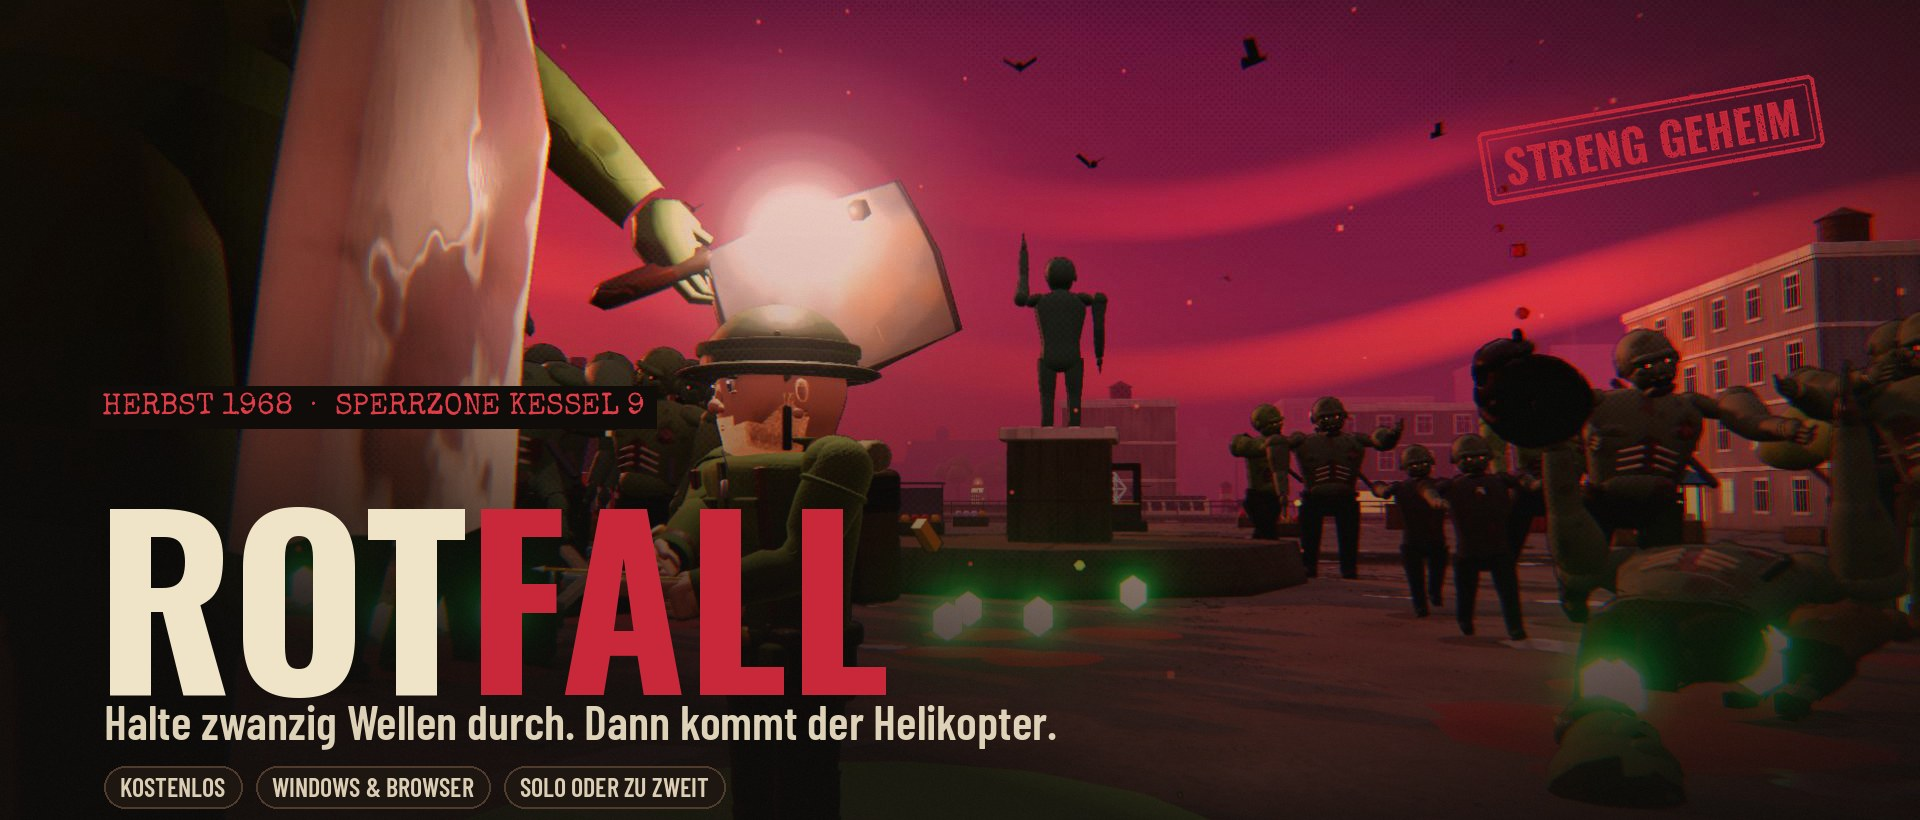
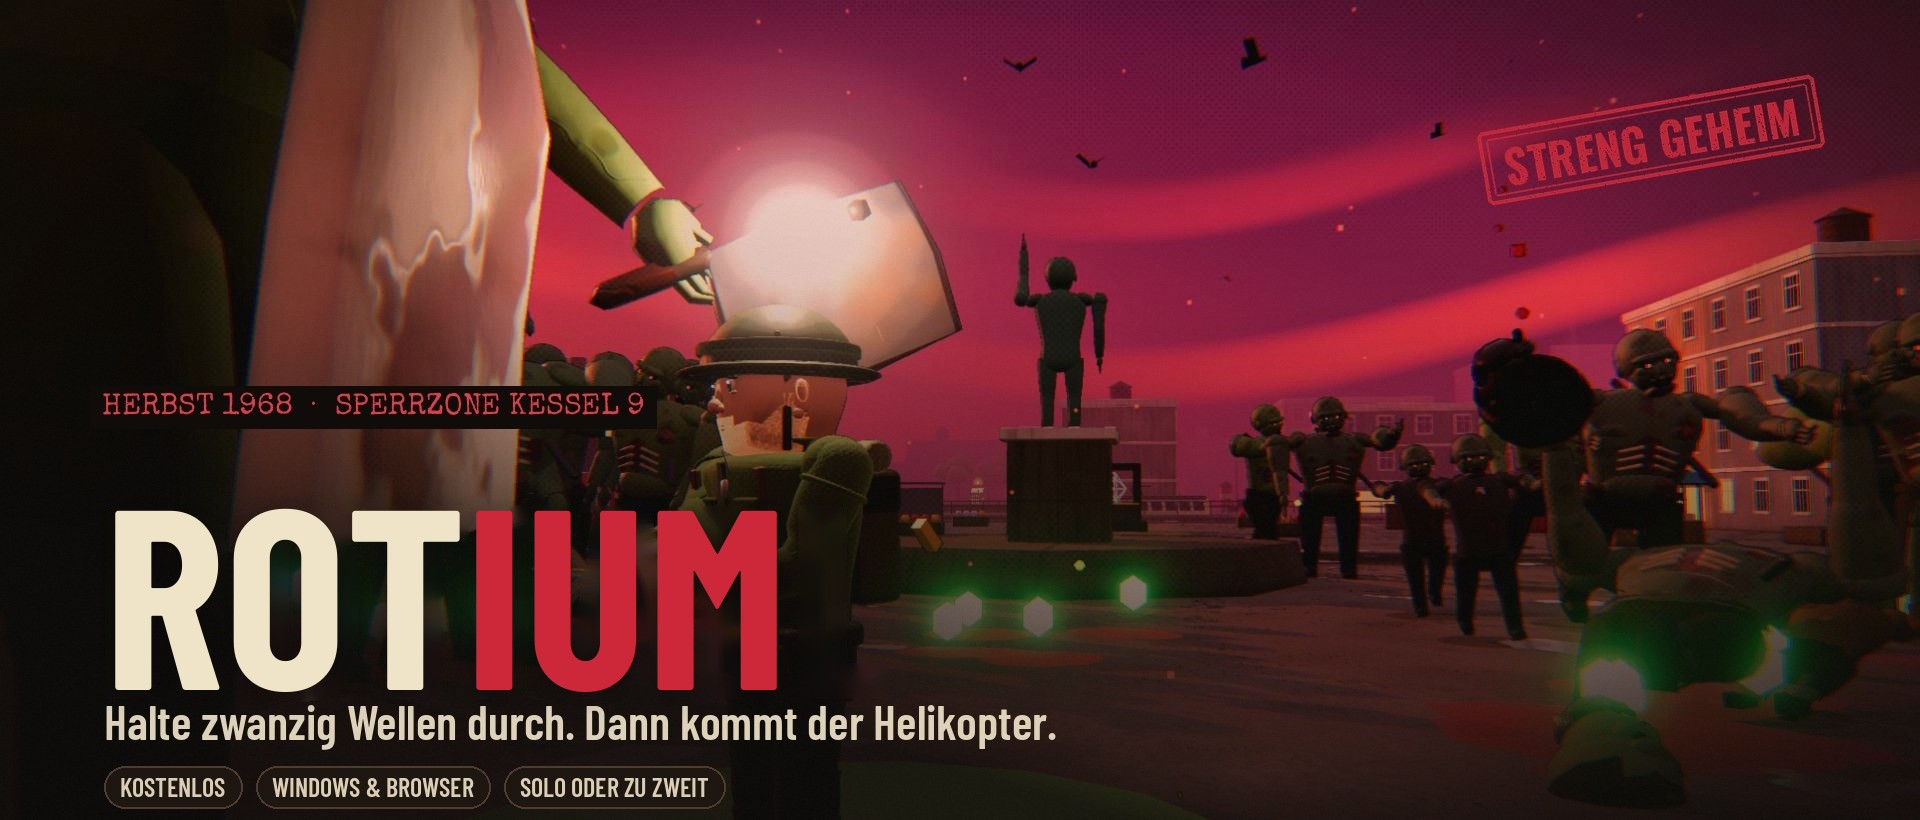
Umbenennung ROTFALL → ROTIUM: Seiten, README, Titelbild, Vorlagen, Discord-Funker
Claude-Session: https://claude.ai/code/session_01DR4TC9iCHMCvUycto7uoQm

Changed region(s): [[0.0312, 0.6098, 0.4688, 0.8537]]

diff --git a/release/index.html b/release/index.html
@@ -3,11 +3,11 @@
 <head>
 <meta charset="utf-8">
 <meta name="viewport" content="width=device-width, initial-scale=1">
-<title>ROTFALL herunterladen – Windows</title>
-<meta name="description" content="ROTFALL für Windows herunterladen: kostenloses 3D-Zombie-Survival-Roguelite im Kalten Krieg 1968.">
-<meta property="og:title" content="ROTFALL – Download für Windows">
+<title>ROTIUM herunterladen – Windows</title>
+<meta name="description" content="ROTIUM für Windows herunterladen: kostenloses 3D-Zombie-Survival-Roguelite im Kalten Krieg 1968.">
+<meta property="og:title" content="ROTIUM – Download für Windows">
 <meta property="og:description" content="Halte zwanzig Wellen durch. Dann kommt der Helikopter. Kostenlos, keine Anmeldung.">
-<meta property="og:image" content="https://beydo7.github.io/rotfall-releases/media/site/hero.jpg">
+<meta property="og:image" content="https://beydo7.github.io/rotium-releases/media/site/hero.jpg">
 <link rel="icon" href="../media/site/icon.png">
 <link rel="stylesheet" href="../media/site/site.css">
 <style>
@@ -22,7 +22,7 @@
 </head>
 <body>
 <header class="top"><div class="wrap">
-  <a class="brand" href="../"><img src="../media/site/icon.png" alt="">ROTFALL</a>
+  <a class="brand" href="../"><img src="../media/site/icon.png" alt="">ROTIUM</a>
   <nav>
     <a href="../play/">Im Browser spielen</a>
     <a class="on" href="./">Download</a>
@@ -34,10 +34,10 @@
 <section class="dl"><div class="wrap">
   <div>
     <div class="kicker">Windows · kostenlos</div>
-    <h1>ROTFALL herunterladen</h1>
+    <h1>ROTIUM herunterladen</h1>
     <p class="lead">Ein Download, entpacken, loslegen. Keine Installation, keine Anmeldung.</p>
     <div class="btns" style="margin-top:26px">
-      <a id="dl" class="btn red big" href="https://github.com/beydo7/rotfall-releases/releases/latest">
+      <a id="dl" class="btn red big" href="https://github.com/beydo7/rotium-releases/releases/latest">
         <svg viewBox="0 0 24 24" fill="currentColor"><path d="M3 5.5 10.5 4.4v7.1H3V5.5zm0 13 7.5 1.1v-7H3v5.9zm8.4 1.2L21 21v-8.4h-9.6v7.1zm0-15.4v7.2H21V3l-9.6 1.3z"/></svg>
         <span>Für Windows laden<small id="dlsub">Neueste Version</small></span>
       </a>
@@ -45,16 +45,16 @@
     </div>
     <p class="meta" id="meta"><span>Windows 10 / 11 (64-Bit)</span></p>
   </div>
-  <img class="shot" src="../media/site/hero.jpg" alt="Szene aus ROTFALL">
+  <img class="shot" src="../media/site/hero.jpg" alt="Szene aus ROTIUM">
 </div></section>
 
 <section><div class="wrap">
   <div class="kicker">In drei Schritten</div>
-  <h2>So startest du ROTFALL</h2>
+  <h2>So startest du ROTIUM</h2>
   <div class="steps">
     <div class="card"><h3>ZIP laden</h3><p>Oben auf „Für Windows laden“ klicken.</p></div>
     <div class="card"><h3>Entpacken</h3><p>Rechtsklick auf die ZIP-Datei → „Alle extrahieren“.</p></div>
-    <div class="card"><h3>ROTFALL.exe starten</h3><p>Warnt Windows („Der Computer wurde geschützt“): „Weitere Informationen“ → „Trotzdem ausführen“.</p></div>
+    <div class="card"><h3>ROTIUM.exe starten</h3><p>Warnt Windows („Der Computer wurde geschützt“): „Weitere Informationen“ → „Trotzdem ausführen“.</p></div>
   </div>
   <p class="lead" style="margin-top:20px;font-size:17px">Neue Version? Einfach die neue ZIP entpacken und die alte löschen. Dein Fortschritt liegt getrennt vom Spiel und bleibt erhalten.</p>
 </div></section>
@@ -70,21 +70,21 @@
     <tr><td>Arbeitsspeicher</td><td id="ramMin">wird gerade gemessen</td><td id="ramRec">wird gerade gemessen</td></tr>
     <tr><td>Speicherplatz</td><td>300 MB</td><td>300 MB</td></tr>
   </table>
-  <p class="notes" style="margin-top:14px">Im Spiel unter <b>Optionen → Grafik → „Leistungstest starten“</b> prüft ROTFALL in etwa sechs Minuten, wie gut es auf deinem PC läuft.</p>
+  <p class="notes" style="margin-top:14px">Im Spiel unter <b>Optionen → Grafik → „Leistungstest starten“</b> prüft ROTIUM in etwa sechs Minuten, wie gut es auf deinem PC läuft.</p>
 </div></section>
 
 <section id="notes-sec" style="padding-top:20px" hidden><div class="wrap">
   <div class="kicker">Was ist neu</div>
   <h2 id="notes-title">Patchnotes</h2>
   <div class="card notes" id="notes"></div>
-  <p style="margin-top:14px"><a href="https://github.com/beydo7/rotfall-releases/releases">Alle Versionen ansehen →</a></p>
+  <p style="margin-top:14px"><a href="https://github.com/beydo7/rotium-releases/releases">Alle Versionen ansehen →</a></p>
 </div></section>
 
 <footer><div class="wrap">
-  <span>ROTFALL · ein Spiel von Pascal (Beyd)</span>
+  <span>ROTIUM · ein Spiel von Pascal (Beyd)</span>
   <nav>
-    <a href="https://github.com/beydo7/rotfall-releases">GitHub</a>
-    <a href="https://github.com/beydo7/rotfall-releases/issues/new/choose">Fehler melden</a>
+    <a href="https://github.com/beydo7/rotium-releases">GitHub</a>
+    <a href="https://github.com/beydo7/rotium-releases/issues/new/choose">Fehler melden</a>
     <a href="https://discord.gg/6yuVzSg8vg">Discord</a>
   </nav>
 </div></footer>
@@ -108,7 +108,7 @@ function md(src) {
   if (list) out.push('</ul>');
   return out.join('');
 }
-fetch('https://api.github.com/repos/beydo7/rotfall-releases/releases/latest').then((r) => r.ok ? r.json() : null).then((rel) => {
+fetch('https://api.github.com/repos/beydo7/rotium-releases/releases/latest').then((r) => r.ok ? r.json() : null).then((rel) => {
   if (!rel) return;
   const win = (rel.assets || []).find((a) => /windows.*\.zip$/i.test(a.name));
   const ver = (rel.tag_name || '').replace(/\.0$/, '');

diff --git a/index.html b/index.html
@@ -3,17 +3,17 @@
 <head>
 <meta charset="utf-8">
 <meta name="viewport" content="width=device-width, initial-scale=1">
-<title>ROTFALL – Zombie-Survival-Roguelite · Kalter Krieg 1968</title>
+<title>ROTIUM – Zombie-Survival-Roguelite · Kalter Krieg 1968</title>
 <meta name="description" content="Kostenloses 3D-Zombie-Survival-Roguelite im Kalten Krieg 1968. Halte zwanzig Wellen durch. Dann kommt der Helikopter. Für Windows und im Browser.">
-<meta property="og:title" content="ROTFALL">
+<meta property="og:title" content="ROTIUM">
 <meta property="og:description" content="Halte zwanzig Wellen durch. Dann kommt der Helikopter. Kostenlos für Windows und im Browser.">
-<meta property="og:image" content="https://beydo7.github.io/rotfall-releases/media/site/hero.jpg">
+<meta property="og:image" content="https://beydo7.github.io/rotium-releases/media/site/hero.jpg">
 <link rel="icon" href="media/site/icon.png">
 <link rel="stylesheet" href="media/site/site.css">
 </head>
 <body>
 <header class="top"><div class="wrap">
-  <a class="brand" href="./"><img src="media/site/icon.png" alt="">ROTFALL</a>
+  <a class="brand" href="./"><img src="media/site/icon.png" alt="">ROTIUM</a>
   <nav>
     <a href="play/">Im Browser spielen</a>
     <a href="release/">Download</a>
@@ -55,18 +55,18 @@
 
 <section style="padding-top:0"><div class="wrap">
   <div class="shots">
-    <img src="media/site/shot-1.jpg" alt="Szene aus ROTFALL" loading="lazy">
-    <img src="media/site/shot-2.jpg" alt="Szene aus ROTFALL" loading="lazy">
-    <img src="media/site/shot-3.jpg" alt="Szene aus ROTFALL" loading="lazy">
+    <img src="media/site/shot-1.jpg" alt="Szene aus ROTIUM" loading="lazy">
+    <img src="media/site/shot-2.jpg" alt="Szene aus ROTIUM" loading="lazy">
+    <img src="media/site/shot-3.jpg" alt="Szene aus ROTIUM" loading="lazy">
   </div>
-  <p style="margin-top:24px"><a href="https://github.com/beydo7/rotfall-releases#readme">Alles über ROTFALL: Figuren, Karten, Waffen, Steuerung →</a></p>
+  <p style="margin-top:24px"><a href="https://github.com/beydo7/rotium-releases#readme">Alles über ROTIUM: Figuren, Karten, Waffen, Steuerung →</a></p>
 </div></section>
 
 <footer><div class="wrap">
-  <span>ROTFALL · ein Spiel von Pascal (Beyd)</span>
+  <span>ROTIUM · ein Spiel von Pascal (Beyd)</span>
   <nav>
-    <a href="https://github.com/beydo7/rotfall-releases">GitHub</a>
-    <a href="https://github.com/beydo7/rotfall-releases/issues/new/choose">Fehler melden</a>
+    <a href="https://github.com/beydo7/rotium-releases">GitHub</a>
+    <a href="https://github.com/beydo7/rotium-releases/issues/new/choose">Fehler melden</a>
     <a href="https://discord.gg/6yuVzSg8vg">Discord</a>
     <a href="https://tiktok.com/@beydyoyo">TikTok</a>
   </nav>

diff --git a/media/site/site.css b/media/site/site.css
@@ -1,4 +1,4 @@
-/* ROTFALL – gemeinsamer Stil der Seiten (Startseite, Download) */
+/* ROTIUM – gemeinsamer Stil der Seiten (Startseite, Download) */
 @font-face { font-family: Oswald; font-weight: 600; font-display: swap; src: url(oswald-latin-600-normal.woff2) format("woff2"); }
 @font-face { font-family: Oswald; font-weight: 700; font-display: swap; src: url(oswald-latin-700-normal.woff2) format("woff2"); }
 @font-face { font-family: Barlow; font-weight: 400; font-display: swap; src: url(barlow-condensed-latin-400-normal.woff2) format("woff2"); }
